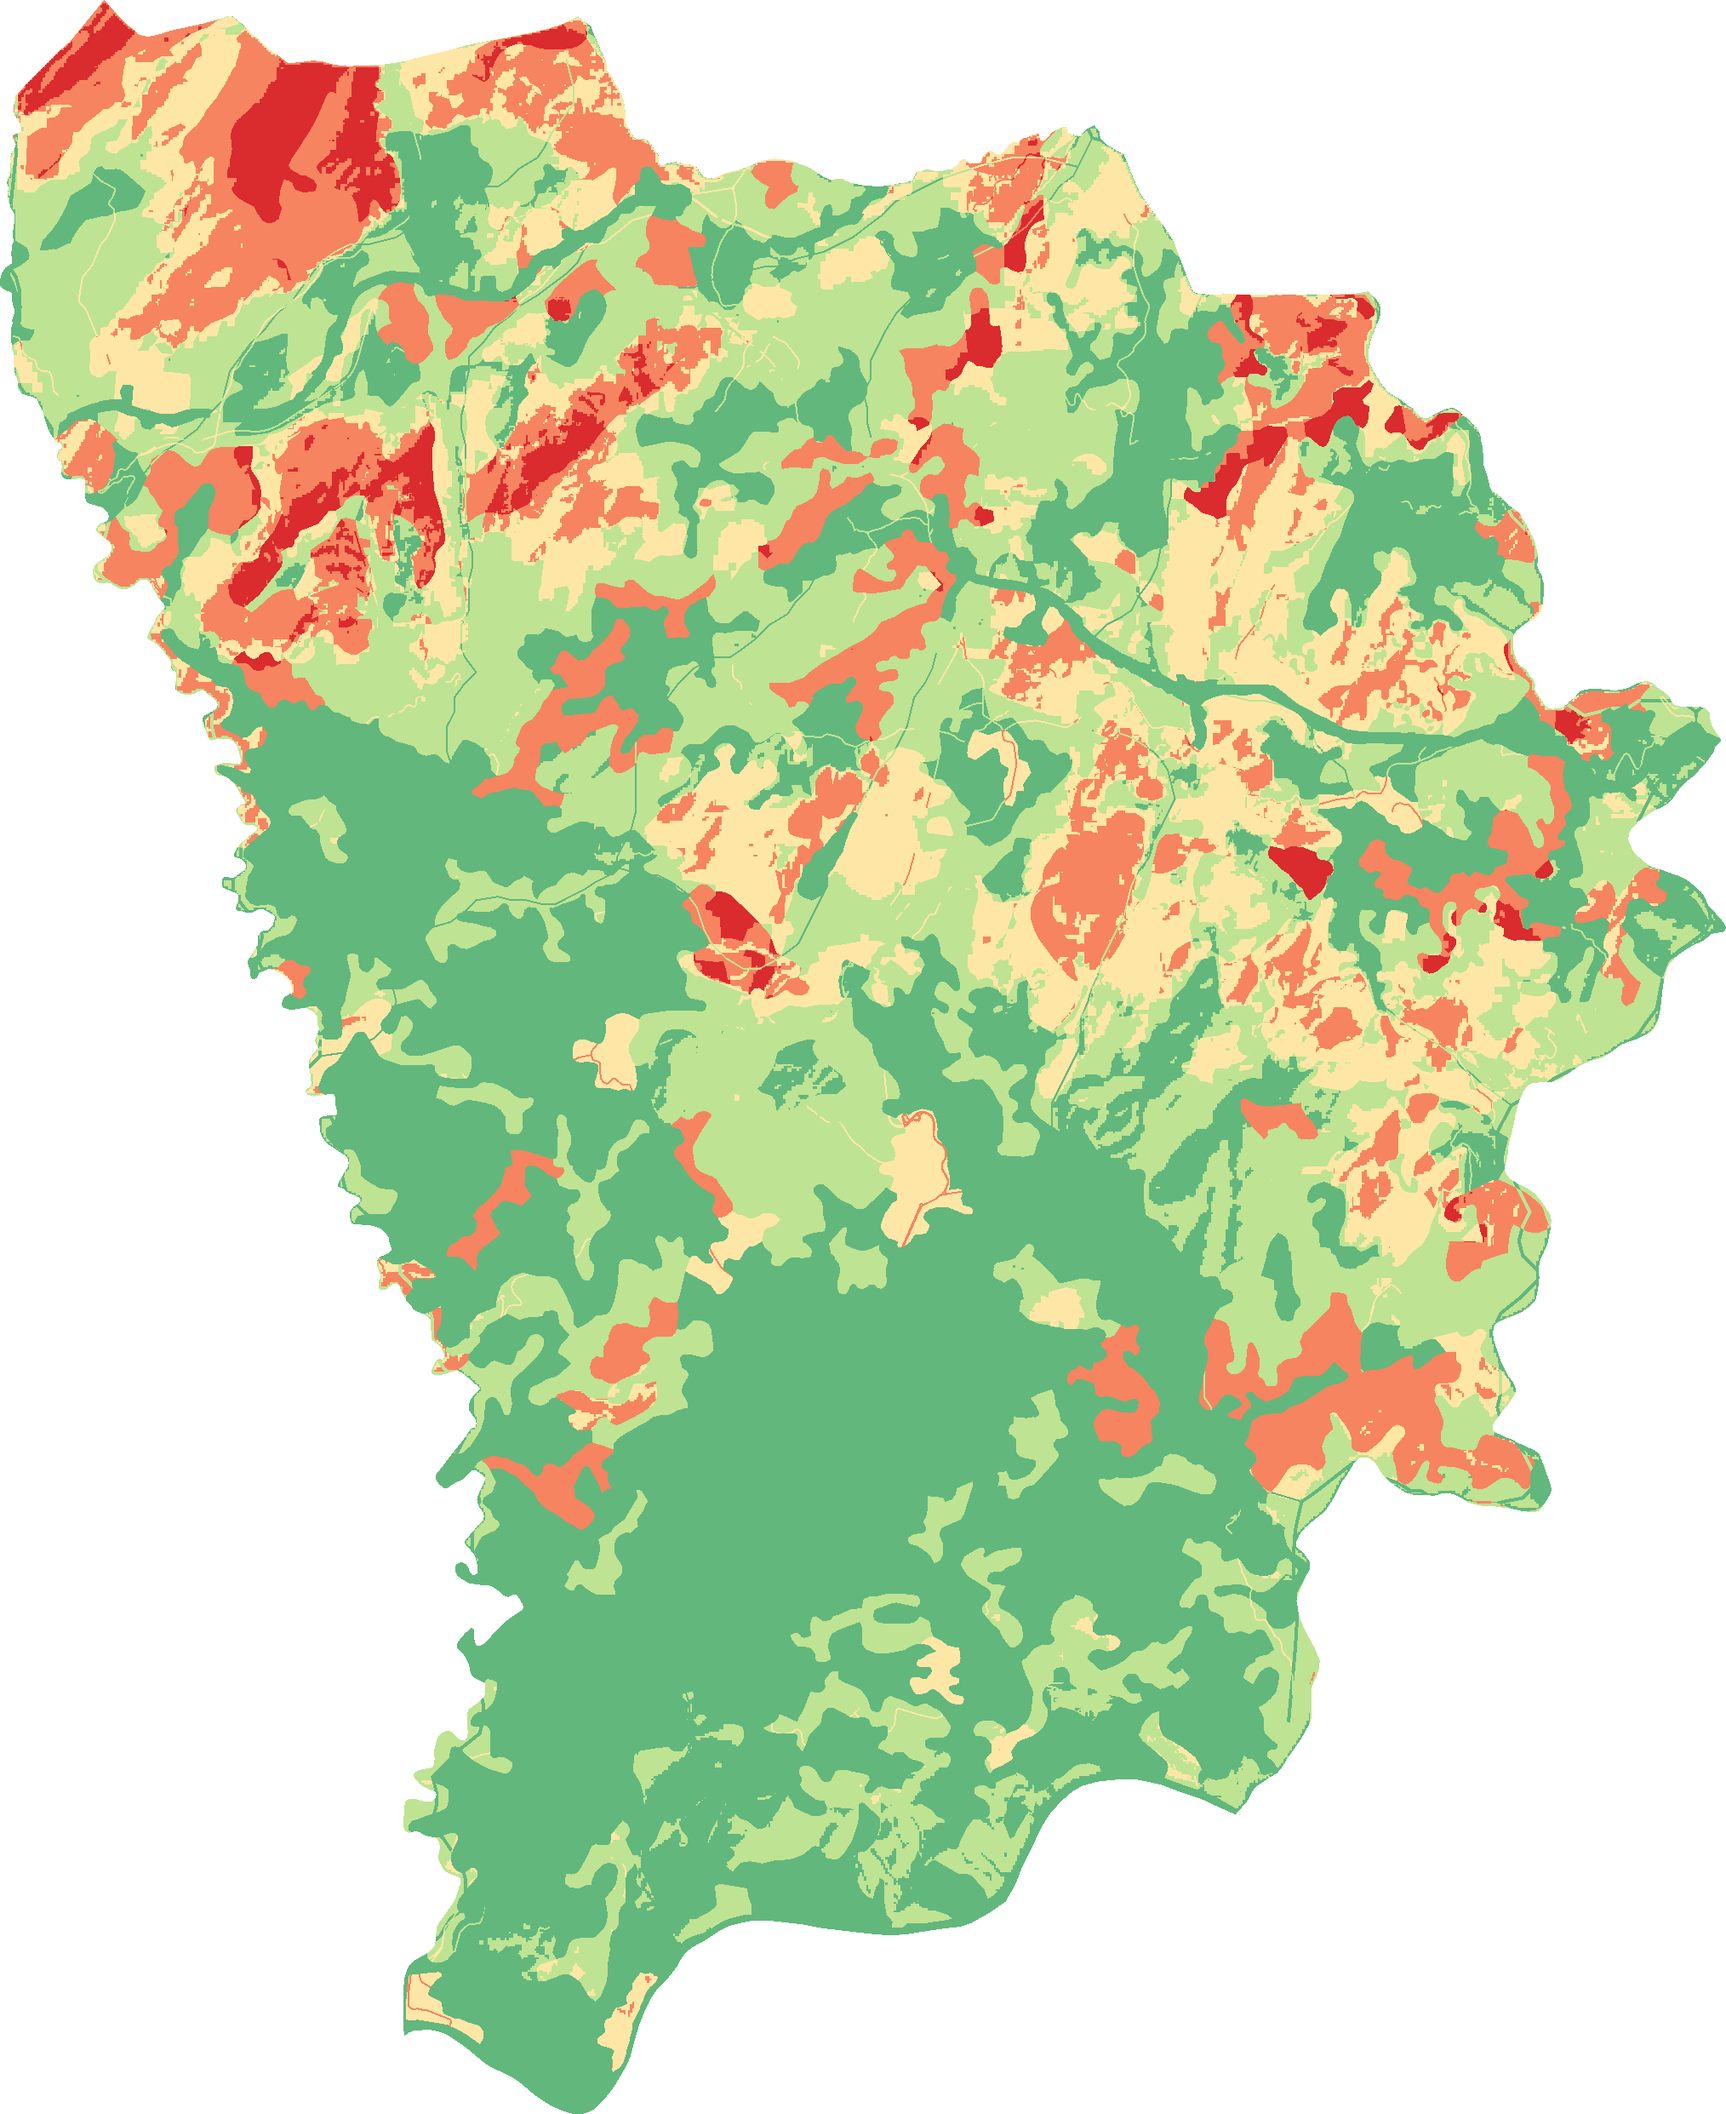
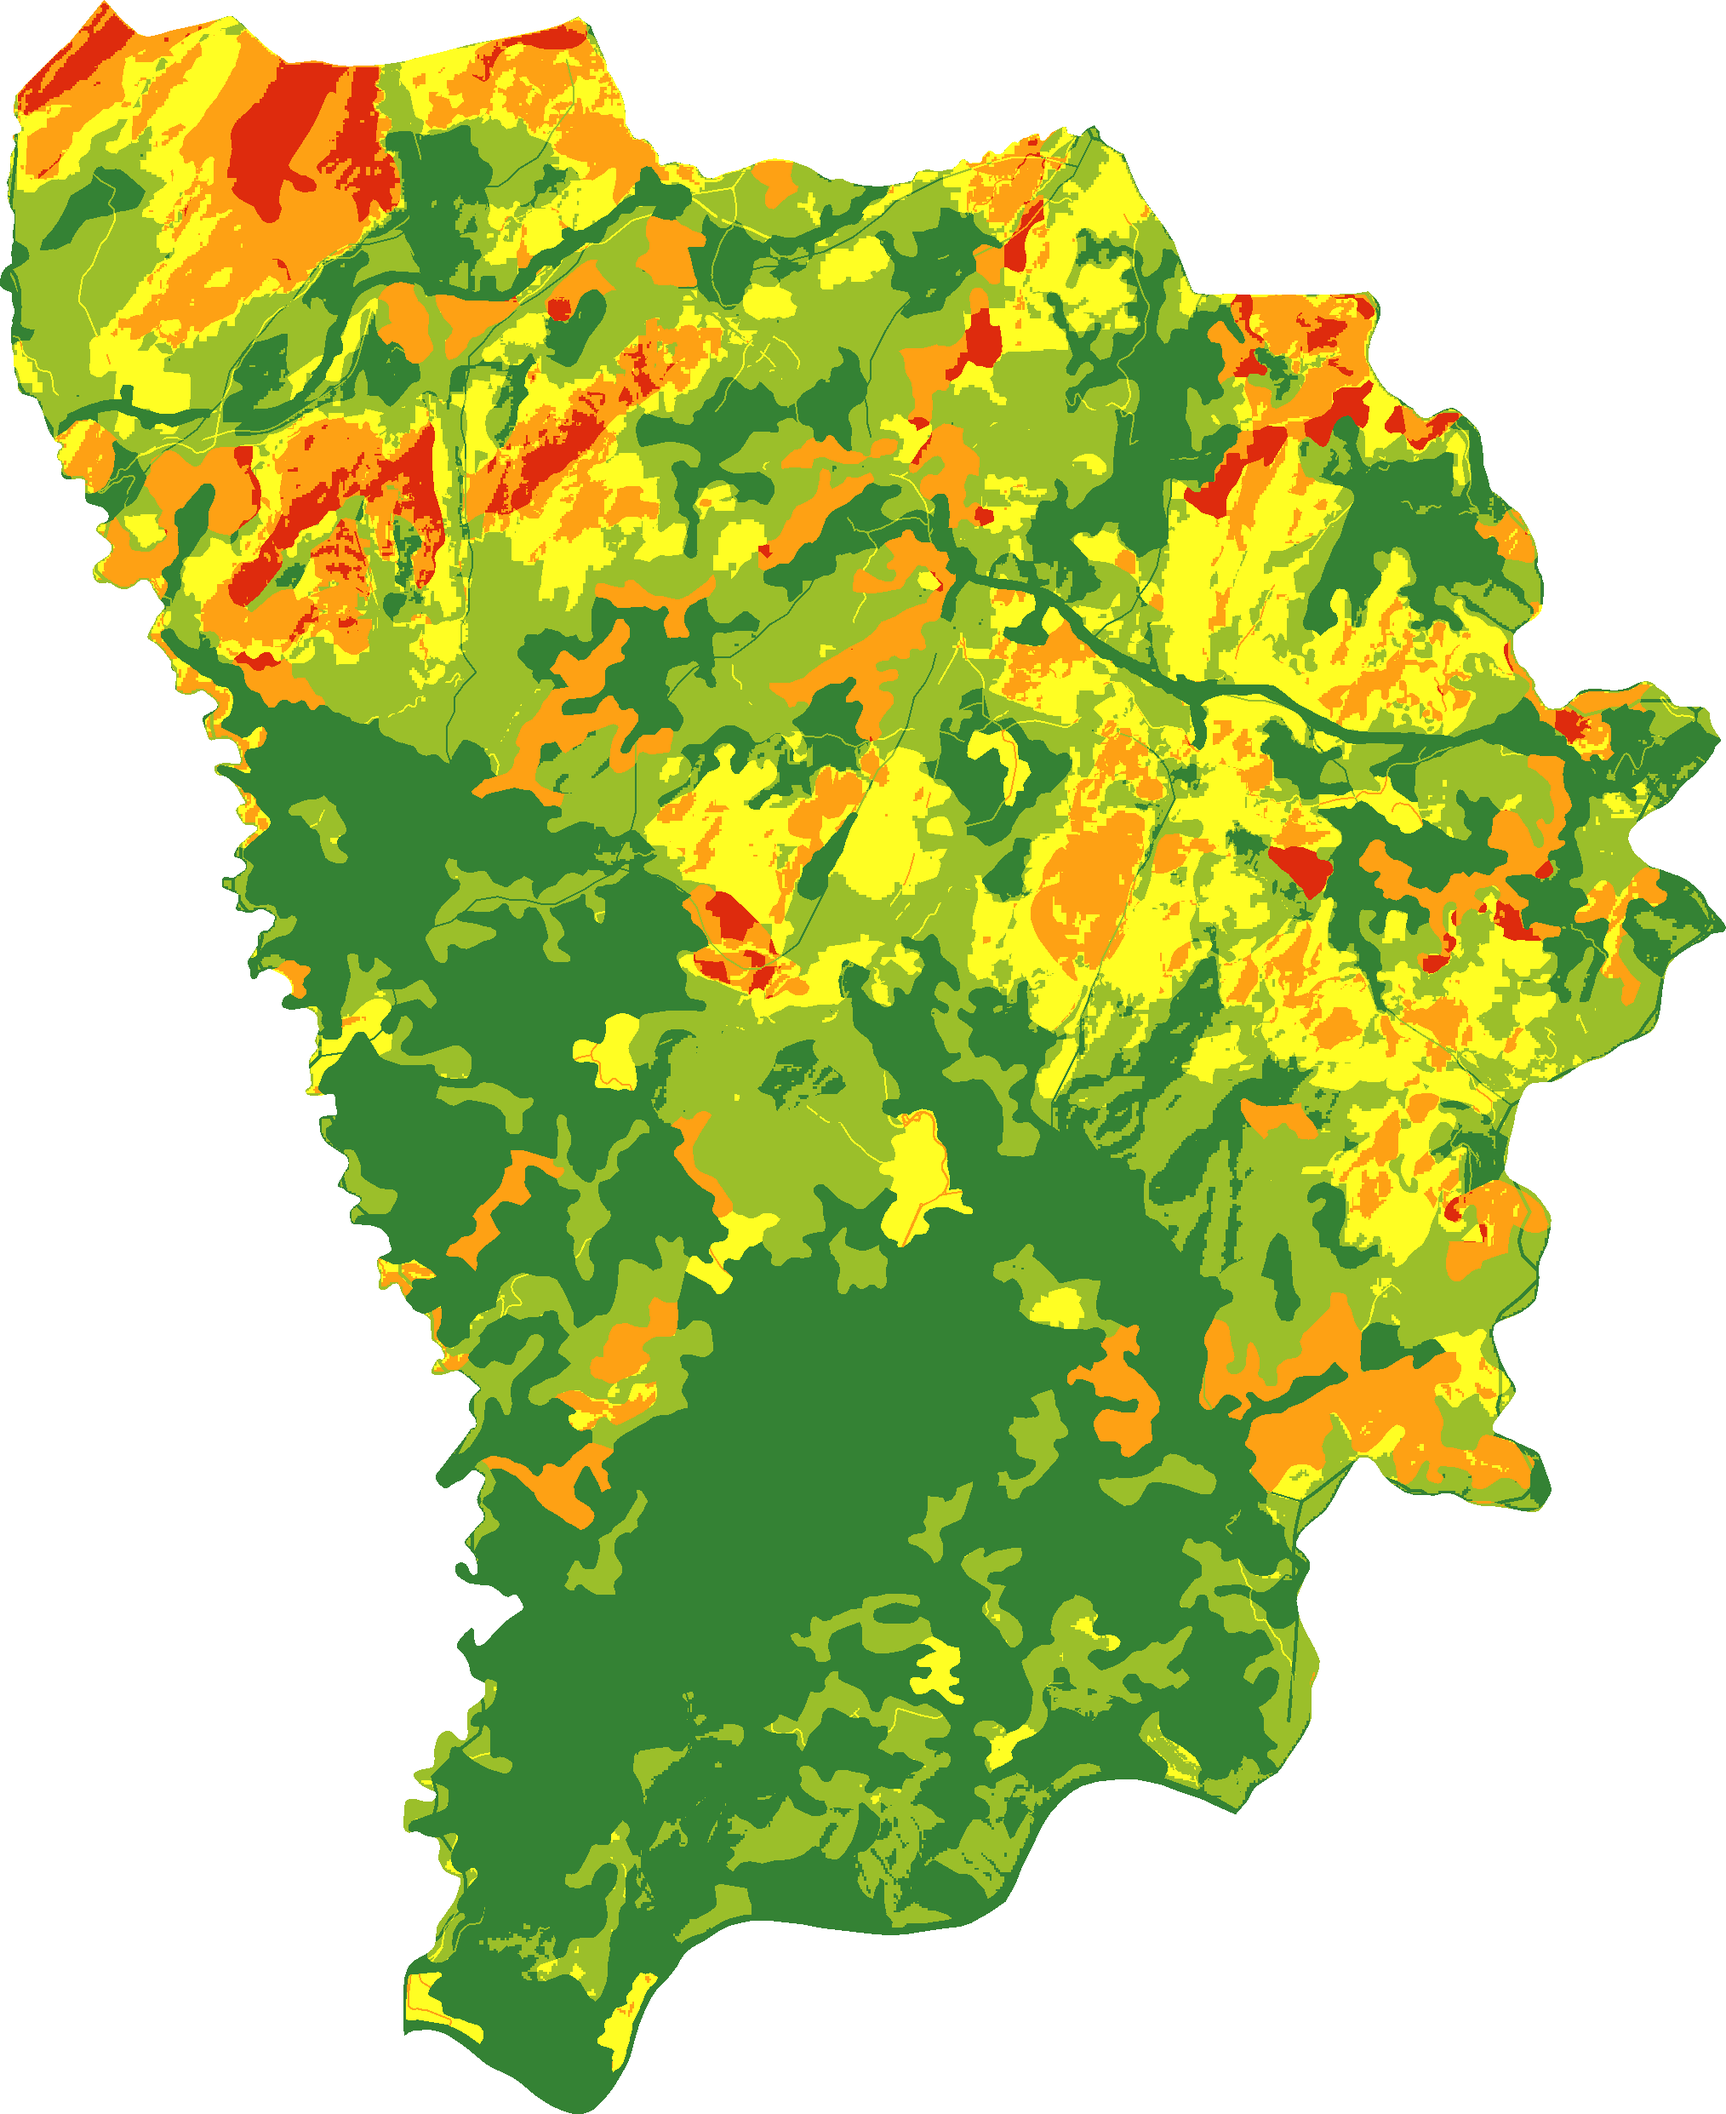
feat(cores): atualizar escala de cores de risco e perigosidade conforme especificacao visual

diff --git a/src/visit/layers.ts b/src/visit/layers.ts
@@ -32,7 +32,7 @@ export interface VisitLayer {
   describe: (cls: number) => string;
 }
 
-const RISK_COLORS = ["#F7D98A", "#EFA650", "#D0672A", "#983519", "#47180D"];
+const RISK_COLORS = ["#036403", "#88B302", "#FFFE06", "#FE9900", "#DD2203"];
 const RISK_WORDS = ["muito baixo", "baixo", "médio", "alto", "muito alto"];
 
 function riskLegend(): LegendItem[] {
@@ -84,9 +84,9 @@ export function applyAccessibleLayers(): void {
     title: "Encostas inclinadas",
     question: "Quanto sobe a encosta",
     legend: [
-      { classes: [2], color: "#F7D98A", label: "um pouco inclinada" },
-      { classes: [3], color: "#D0672A", label: "muito inclinada" },
-      { classes: [4], color: "#47180D", label: "quase a pique" },
+      { classes: [2], color: "#88B302", label: "um pouco inclinada" },
+      { classes: [3], color: "#FE9900", label: "muito inclinada" },
+      { classes: [4], color: "#DD2203", label: "quase a pique" },
     ],
     grid: new ClassGrid(`${A11Y}/declive_classes.png`, EXT_25M),
     empty: "Aqui não há dados.",
@@ -140,7 +140,7 @@ export function renderLegend(el: HTMLElement | null, key: string): void {
     .map((it) => {
       const num = it.number ? `<span class="sw-num">${it.number}</span>` : "";
       const fl = it.flames ? `<span class="flames" aria-hidden="true">${flame.repeat(it.flames)}</span>` : "";
-      const dark = ["#47180D", "#983519", "#006D2C", "#31A354"].includes(it.color);
+      const dark = ["#036403", "#DD2203", "#006837", "#47180D", "#983519", "#006D2C", "#31A354"].includes(it.color);
       return `<li><span class="sw${dark ? " dark" : ""}" style="background:${it.color}">${num}</span><span class="lg-label">${it.label}</span>${fl}</li>`;
     })
     .join("");

diff --git a/scripts/update_risk_colors.py b/scripts/update_risk_colors.py
@@ -1,0 +1,57 @@
+import os
+import numpy as np
+from PIL import Image
+
+A11Y_DIR = os.path.join("public", "data", "dourorisk", "a11y")
+BASE_DIR = os.path.join("public", "data", "dourorisk")
+
+# Novas cores da escala de risco conforme solicitado pelo utilizador:
+# 1: Verde escuro (Muito Baixo / Reduzido)
+# 2: Verde lima / amarelado (Baixo / Moderado)
+# 3: Amarelo vivo (Médio / Elevado)
+# 4: Laranja vivo (Alto / Muito Elevado)
+# 5: Vermelho vivo (Muito Alto / Extremo / Máximo)
+NEW_RISK_PALETTE = {
+    0: (0, 0, 0, 0),
+    1: (3, 100, 3, 205),      # #036403 Verde escuro
+    2: (136, 179, 2, 215),    # #88b302 Verde lima / claro
+    3: (255, 254, 6, 225),    # #fffe06 Amarelo vivo
+    4: (254, 153, 0, 235),    # #fe9900 Laranja vivo
+    5: (221, 34, 3, 245),     # #dd2203 Vermelho vivo
+}
+
+layers = [
+    ("risco_2025_classes.png", "risco_2025.png", "dourorisk_risco_2025_10m.png"),
+    ("perigosidade_2025_classes.png", "perigosidade_2025.png", "dourorisk_perigosidade_2025_10m.png"),
+    ("icnf_conjuntural_classes.png", "icnf_conjuntural.png", "dourorisk_perigosidade_icnf_2025.png"),
+    ("icnf_estrutural_classes.png", "icnf_estrutural.png", "dourorisk_perigosidade_estrutural_icnf.png"),
+]
+
+def repaint(cls, palette):
+    h, w = cls.shape
+    rgba = np.zeros((h, w, 4), dtype=np.uint8)
+    for k, col in palette.items():
+        rgba[cls == k] = col
+    return Image.fromarray(rgba, mode="RGBA")
+
+print("A repintar rasters com a nova escala de cores...")
+for classes_file, a11y_out, base_out in layers:
+    classes_path = os.path.join(A11Y_DIR, classes_file)
+    if not os.path.exists(classes_path):
+        print(f"Aviso: {classes_path} não encontrado!")
+        continue
+    
+    cls = np.array(Image.open(classes_path))
+    img = repaint(cls, NEW_RISK_PALETTE)
+    
+    # Grava na pasta a11y
+    out1 = os.path.join(A11Y_DIR, a11y_out)
+    img.save(out1, "PNG", optimize=True)
+    print(f" -> Guardado: {out1} ({os.path.getsize(out1)/1024:.1f} KB)")
+    
+    # Grava também na pasta base
+    out2 = os.path.join(BASE_DIR, base_out)
+    img.save(out2, "PNG", optimize=True)
+    print(f" -> Guardado: {out2} ({os.path.getsize(out2)/1024:.1f} KB)")
+
+print("Concluído com sucesso!")

diff --git a/scripts/prepare_a11y_layers.py b/scripts/prepare_a11y_layers.py
@@ -21,8 +21,8 @@ from PIL import Image
 SRC = os.path.join("public", "data", "dourorisk")
 OUT = os.path.join(SRC, "a11y")
 
-# Escala de perigo 1..5 (especificação de acessibilidade)
-RISK = {1: (247, 217, 138, 170), 2: (239, 166, 80, 190), 3: (208, 103, 42, 210), 4: (152, 53, 25, 225), 5: (71, 24, 13, 235)}
+# Escala de perigo 1..5 com as cores oficiais solicitadas (Verde escuro, Verde lima, Amarelo, Laranja, Vermelho)
+RISK = {1: (3, 100, 3, 205), 2: (136, 179, 2, 215), 3: (255, 254, 6, 225), 4: (254, 153, 0, 235), 5: (221, 34, 3, 245)}
 # Cores originais (export_dourorisk_to_web.py)
 ORIG_RISK = {(26, 150, 65): 1, (166, 217, 106): 2, (254, 224, 139): 3, (244, 109, 67): 4, (215, 25, 28): 5}
 ORIG_REC = {(254, 217, 118): 1, (254, 178, 76): 2, (253, 141, 60): 3, (240, 59, 32): 4, (189, 0, 38): 5}
